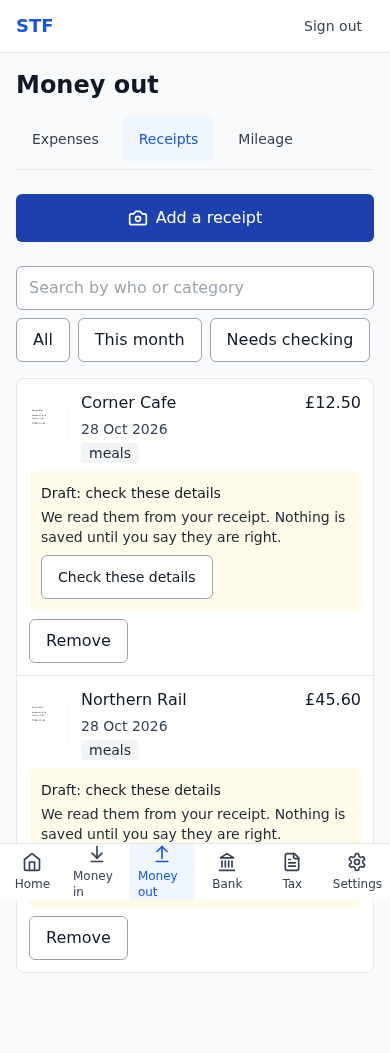
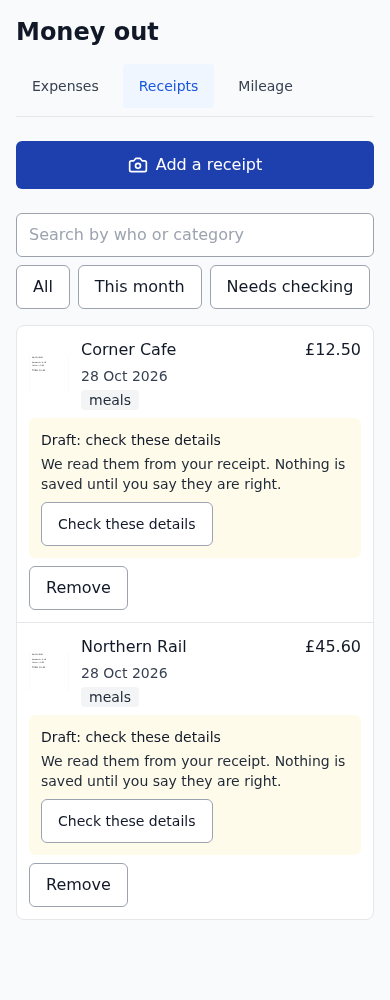
STF-76: address review: link highlights the new entry, tax must match a rate, skipped receipts stop counting as drafts, honest discard wording, recapture 390 px

diff --git a/src/pages/ReceiptReview.tsx b/src/pages/ReceiptReview.tsx
@@ -6,6 +6,7 @@ import StateMessage from '../components/StateMessage';
 import { fetchAccounts, type ApiAccount } from '../lib/accountsApi';
 import { ENTRIES_QUERY_KEY } from '../lib/entriesApi';
 import { vatRateOf } from '../lib/entryForm';
+import { vatOnGross } from '../lib/vat';
 import { formatPenceRaw, parsePence } from '../lib/money';
 import {
   confirmReceiptDraft,
@@ -30,10 +31,10 @@ function suggestedAccountId(accounts: ApiAccount[], suggestion: string | undefin
   return accounts.find((account) => account.taxCategory === wanted || account.name.toLowerCase() === wanted)?.id ?? '';
 }
 
-function ConfidenceMarker({ confidence }: { confidence: number | null }) {
+function ConfidenceMarker({ confidence, id }: { confidence: number | null; id: string }) {
   const sure = confidence !== null && confidence >= LOW_CONFIDENCE_THOUSANDTHS;
   return (
-    <span className={`text-sm font-medium ${sure ? 'text-green-800' : 'text-amber-900'}`}>
+    <span id={id} className={`text-sm font-medium ${sure ? 'text-green-800' : 'text-amber-900'}`}>
       {sure ? 'Sure' : 'Check this one'}
     </span>
   );
@@ -55,7 +56,7 @@ function Field({ label, officialName, confidence, htmlFor, children }: {
     >
       <div className="flex items-baseline justify-between gap-2">
         <label htmlFor={htmlFor} className="font-medium text-gray-900">{label}</label>
-        <ConfidenceMarker confidence={confidence} />
+        <ConfidenceMarker confidence={confidence} id={`${htmlFor}-confidence`} />
       </div>
       {officialName && <OfficialName>{officialName}</OfficialName>}
       {children}
@@ -87,7 +88,7 @@ function DiscardDialog({ receipt, onKeep, onDiscard }: { receipt: ListedReceipt;
       <div className="p-6">
         <h2 id="discard-receipt-title" className="text-lg font-semibold text-gray-900">Throw this receipt away?</h2>
         <p className="mt-3 break-words text-gray-900">{receipt.fileName}</p>
-        <p className="mt-2 text-gray-800">The picture and the details we read from it will be removed. No expense is added.</p>
+        <p className="mt-2 text-gray-800">We will drop the details we read. The receipt stays in your list so you can add the expense by hand. No expense is added now.</p>
       </div>
       <div className="flex justify-end gap-3 border-t border-gray-200 p-4">
         <button type="button" className={buttonClass} onClick={onKeep}>Keep it</button>
@@ -141,12 +142,18 @@ export default function ReceiptReview({ receipt, onDone }: { receipt: ListedRece
     if (grossPence === null || grossPence === 0) return setFormError('Enter the total on the receipt, for example 12.50.');
     if (taxPence === null || taxPence >= grossPence) return setFormError('Enter the tax paid as an amount smaller than the total, or leave it empty.');
     if (!accountId) return setFormError('Choose a category.');
+    // The server works the tax out from the rate, so a figure that is not one of the three rates would be saved as something else.
+    const vatRatePercent = vatRateOf(grossPence - taxPence, taxPence);
+    const expectedTaxPence = vatOnGross(grossPence, vatRatePercent);
+    if (taxPence !== expectedTaxPence) {
+      return setFormError(`Tax on a receipt is 0%, 5% or 20% of the amount before tax. For this total the closest is ${formatPenceRaw(expectedTaxPence)}. Change the tax paid or the total.`);
+    }
     confirm.mutate({
       id: receipt.id,
       date,
       supplier: supplier.trim(),
       grossPence,
-      vatRatePercent: vatRateOf(grossPence - taxPence, taxPence),
+      vatRatePercent,
       categoryAccountId: accountId,
       description: supplier.trim(),
     });
@@ -157,7 +164,7 @@ export default function ReceiptReview({ receipt, onDone }: { receipt: ListedRece
       <div className="mt-6" role="status">
         <p className="text-gray-900">Saved. This receipt is now one of your expenses.</p>
         <div className="mt-4 flex flex-wrap gap-3">
-          <Link to={`/money-out?entry=${confirm.data}`} className={primaryButtonClass}>See it in your expenses</Link>
+          <Link to={`/money-out?${new URLSearchParams({ entry: confirm.data, from: date, to: date })}`} className={primaryButtonClass}>See it in your expenses</Link>
           <Link to="/money-out/receipts" className={buttonClass}>Back to receipts</Link>
         </div>
       </div>
@@ -182,22 +189,22 @@ export default function ReceiptReview({ receipt, onDone }: { receipt: ListedRece
           }}
         >
           <Field label="Date" htmlFor="review-date" confidence={confidenceOf('date')}>
-            <input id="review-date" type="date" value={date} onChange={(event) => setDate(event.target.value)} className={inputClass} />
+            <input id="review-date" aria-describedby="review-date-confidence" type="date" value={date} onChange={(event) => setDate(event.target.value)} className={inputClass} />
           </Field>
           <Field label="Who it was from" htmlFor="review-supplier" confidence={confidenceOf('vendor')}>
-            <input id="review-supplier" type="text" value={supplier} onChange={(event) => setSupplier(event.target.value)} className={inputClass} />
+            <input id="review-supplier" aria-describedby="review-supplier-confidence" type="text" value={supplier} onChange={(event) => setSupplier(event.target.value)} className={inputClass} />
           </Field>
           <Field label="Total including tax" htmlFor="review-total" confidence={confidenceOf('totalPence')}>
-            <input id="review-total" type="text" inputMode="decimal" value={total} onChange={(event) => setTotal(event.target.value)} className={`${inputClass} text-right tabular-nums`} />
+            <input id="review-total" aria-describedby="review-total-confidence" type="text" inputMode="decimal" value={total} onChange={(event) => setTotal(event.target.value)} className={`${inputClass} text-right tabular-nums`} />
           </Field>
           <Field label="Tax paid" officialName="VAT" htmlFor="review-tax" confidence={confidenceOf('vatPence')}>
-            <input id="review-tax" type="text" inputMode="decimal" value={tax} onChange={(event) => setTax(event.target.value)} className={`${inputClass} text-right tabular-nums`} />
+            <input id="review-tax" aria-describedby="review-tax-confidence" type="text" inputMode="decimal" value={tax} onChange={(event) => setTax(event.target.value)} className={`${inputClass} text-right tabular-nums`} />
           </Field>
           <Field label="Category" htmlFor="review-category" confidence={confidenceOf('category')}>
             {accountsQuery.isPending && <StateMessage kind="loading" className="mt-1">Loading your categories…</StateMessage>}
             {accountsQuery.isError && <StateMessage kind="error" className="mt-1" onRetry={() => void accountsQuery.refetch()}>We could not load your categories. Your receipt is safe.</StateMessage>}
             {accountsQuery.isSuccess && (
-              <select id="review-category" value={accountId} onChange={(event) => setChosenAccountId(event.target.value)} className={inputClass}>
+              <select id="review-category" aria-describedby="review-category-confidence" value={accountId} onChange={(event) => setChosenAccountId(event.target.value)} className={inputClass}>
                 <option value="">Choose a category</option>
                 {accounts.map((account) => <option key={account.id} value={account.id}>{account.name}</option>)}
               </select>
@@ -205,7 +212,7 @@ export default function ReceiptReview({ receipt, onDone }: { receipt: ListedRece
           </Field>
           {errorMessage && <p role="alert" className="text-red-800">{errorMessage}</p>}
           <div className="flex flex-wrap gap-3">
-            <button type="submit" className={primaryButtonClass} disabled={confirm.isPending}>Confirm</button>
+            <button type="submit" className={primaryButtonClass} disabled={confirm.isPending}>{confirm.isPending ? 'Saving…' : 'Confirm'}</button>
             <button type="button" className={buttonClass} disabled={discard.isPending} onClick={() => setDiscarding(true)}>Discard</button>
           </div>
         </form>

diff --git a/src/pages/ReceiptReview.test.tsx b/src/pages/ReceiptReview.test.tsx
@@ -120,7 +120,28 @@ describe('ReceiptReview', () => {
     await waitFor(() => expect((screen.getByLabelText(/category/i) as HTMLSelectElement).value).toBe('acc-meals'));
     fireEvent.click(screen.getByRole('button', { name: 'Confirm' }));
     const link = await screen.findByRole('link', { name: /see.*expense/i });
-    expect(link.getAttribute('href')).toContain('entry-9');
+    // Filtered to the receipt's day so the new entry is on the first page; the list highlights it.
+    expect(link.getAttribute('href')).toBe('/money-out?entry=entry-9&from=2026-10-28&to=2026-10-28');
+  });
+
+  it('refuses a tax amount that is not 0, 5 or 20 percent of the net, and names the nearest one', async () => {
+    renderReview();
+    fireEvent.change(await screen.findByLabelText(/total/i), { target: { value: '12.00' } });
+    fireEvent.change(screen.getByLabelText(/tax paid/i), { target: { value: '1.00' } });
+    await waitFor(() => expect((screen.getByLabelText(/category/i) as HTMLSelectElement).value).toBe('acc-meals'));
+    fireEvent.click(screen.getByRole('button', { name: 'Confirm' }));
+    expect((await screen.findByRole('alert')).textContent).toContain('0.57');
+    expect(confirmReceiptDraft).not.toHaveBeenCalled();
+  });
+
+  it('ties each confidence marker to its input and shows Saving while confirming', async () => {
+    vi.mocked(confirmReceiptDraft).mockReturnValue(new Promise(() => {}));
+    renderReview();
+    const who = await screen.findByLabelText(/who it was from/i);
+    expect(document.getElementById(who.getAttribute('aria-describedby') ?? '')?.textContent).toBe('Check this one');
+    await waitFor(() => expect((screen.getByLabelText(/category/i) as HTMLSelectElement).value).toBe('acc-meals'));
+    fireEvent.click(screen.getByRole('button', { name: 'Confirm' }));
+    expect(await screen.findByRole('button', { name: 'Saving…' })).toBeTruthy();
   });
 
   it('shows a refusal with its fix and keeps the form', async () => {
@@ -139,6 +160,7 @@ describe('ReceiptReview', () => {
     expect(discardReceiptDraft).not.toHaveBeenCalled();
     const dialog = screen.getByRole('dialog');
     expect(within(dialog).getByText(/cafe-lunch\.jpg/)).toBeTruthy();
+    expect(within(dialog).getByText(/receipt stays in your list/i)).toBeTruthy();
     fireEvent.click(within(dialog).getByRole('button', { name: 'Discard receipt' }));
     await waitFor(() => expect(discardReceiptDraft).toHaveBeenCalledWith(draft.id));
     await waitFor(() => expect(onDone).toHaveBeenCalled());

diff --git a/src/pages/EntriesList.tsx b/src/pages/EntriesList.tsx
@@ -281,6 +281,8 @@ export default function EntriesList({
   // The URL query holds the filters so the dashboard (?status=draft) and the VAT drill-down can link here.
   const [searchParams, setSearchParams] = useSearchParams();
   const filters = useMemo(() => filtersFromParams(searchParams), [searchParams]);
+  // Set by the link shown after a receipt is confirmed.
+  const justAddedId = searchParams.get('entry');
   const setFilters = (next: EntryFilters) => {
     const params = toEntryListParams(next);
     // toEntryListParams trims for the API; the URL feeds the search box, so it keeps what was typed.
@@ -345,7 +347,8 @@ export default function EntriesList({
             {rows.map((entry) => (
               <li
                 key={entry.id}
-                className="grid min-h-[44px] gap-1 px-4 py-2 md:grid-cols-[7rem_minmax(0,1fr)_10rem_9rem_16rem] md:items-center md:gap-3"
+                aria-current={entry.id === justAddedId ? 'true' : undefined}
+                className={`grid min-h-[44px] gap-1 px-4 py-2 md:grid-cols-[7rem_minmax(0,1fr)_10rem_9rem_16rem] md:items-center md:gap-3${entry.id === justAddedId ? ' bg-blue-50' : ''}`}
               >
                 <span>
                   <span className="text-sm text-gray-700 md:hidden">Date: </span>
@@ -366,6 +369,9 @@ export default function EntriesList({
                     <span className="shrink-0 rounded bg-amber-100 px-2 text-sm text-amber-900">
                       Draft
                     </span>
+                  )}
+                  {entry.id === justAddedId && (
+                    <span className="shrink-0 rounded bg-blue-100 px-2 text-sm text-blue-900">Just added</span>
                   )}
                   {entry.hasReceipt && (
                     <svg

diff --git a/src/pages/EntriesList.test.tsx b/src/pages/EntriesList.test.tsx
@@ -1,7 +1,7 @@
 // @vitest-environment jsdom
 import '@testing-library/jest-dom/vitest';
 import { QueryClient, QueryClientProvider } from '@tanstack/react-query';
-import { cleanup, fireEvent, render, screen, waitFor } from '@testing-library/react';
+import { cleanup, fireEvent, render, screen, waitFor, within } from '@testing-library/react';
 import { afterEach, beforeEach, describe, expect, it, vi } from 'vitest';
 import { MemoryRouter, useLocation } from 'react-router-dom';
 import { DASHBOARD_QUERY_KEY } from '../lib/dashboardApi';
@@ -73,6 +73,15 @@ describe('EntriesList', () => {
     expect(screen.getAllByText('Travel').length).toBeGreaterThan(0);
     expect(screen.getAllByText('Draft')).toHaveLength(2); // the badge and the status option
     expect(screen.getAllByRole('img', { name: 'Receipt attached' })).toHaveLength(1);
+  });
+
+  it('highlights the entry named in the link and leaves the others plain', async () => {
+    pages[''] = { entries: [entry('e1'), entry('e2')], nextCursor: null };
+    await renderList('/money-out?entry=e2');
+    const row = screen.getByText('Entry e2').closest('li') as HTMLElement;
+    expect(row.getAttribute('aria-current')).toBe('true');
+    expect(within(row).getByText('Just added')).toBeTruthy();
+    expect(screen.getByText('Entry e1').closest('li')?.getAttribute('aria-current')).toBeNull();
   });
 
   it('uses no accounting jargon on the list or its filters', async () => {

diff --git a/src/lib/receiptsApi.ts b/src/lib/receiptsApi.ts
@@ -26,7 +26,7 @@ export const RECEIPT_MIME_TYPES = ['image/jpeg', 'image/png', 'image/webp', 'app
 export const MAX_RECEIPT_BYTES = 10 * 1024 * 1024;
 
 /** The few facts a person recognises a receipt by, in plain words. Amount is integer pence. */
-export function readReceiptDetails({ details, createdAt }: Pick<ListedReceipt, 'details' | 'createdAt'>) {
+export function readReceiptDetails({ details, createdAt, aiStatus }: Pick<ListedReceipt, 'details' | 'createdAt' | 'aiStatus'>) {
   const read = (field: string) => details[field]?.value ?? null;
   const amount = read('totalPence') === null ? NaN : Number(read('totalPence'));
   return {
@@ -34,7 +34,8 @@ export function readReceiptDetails({ details, createdAt }: Pick<ListedReceipt, '
     who: read('vendor'),
     category: read('category'),
     amountPence: Number.isInteger(amount) ? amount : null,
-    needsCheck: Object.values(details).some((detail) => !detail.confirmed),
+    // A discarded draft keeps its unconfirmed rows on the server, so its status is what says it is no longer a draft.
+    needsCheck: aiStatus !== 'skipped' && Object.values(details).some((detail) => !detail.confirmed),
   };
 }
 

diff --git a/src/lib/__tests__/receiptsApi.test.ts b/src/lib/__tests__/receiptsApi.test.ts
@@ -141,6 +141,7 @@ describe('readReceiptDetails', () => {
     expect(read).toMatchObject({ who: 'Corner Cafe', amountPence: 1250, date: '2026-10-28', needsCheck: true });
   });
   it('has nothing to check when no details were read, and none once confirmed', () => {
+    expect(readReceiptDetails({ ...base, aiStatus: 'skipped', details: { vendor: { value: 'X', confirmed: false, confidence: 400 } } }).needsCheck).toBe(false);
     expect(readReceiptDetails({ ...base, details: {} })).toMatchObject({ who: null, amountPence: null, date: '2026-10-30T10:00:00Z', needsCheck: false });
     expect(readReceiptDetails({ ...base, details: { vendor: { value: 'X', confirmed: true, confidence: null } } }).needsCheck).toBe(false);
   });
